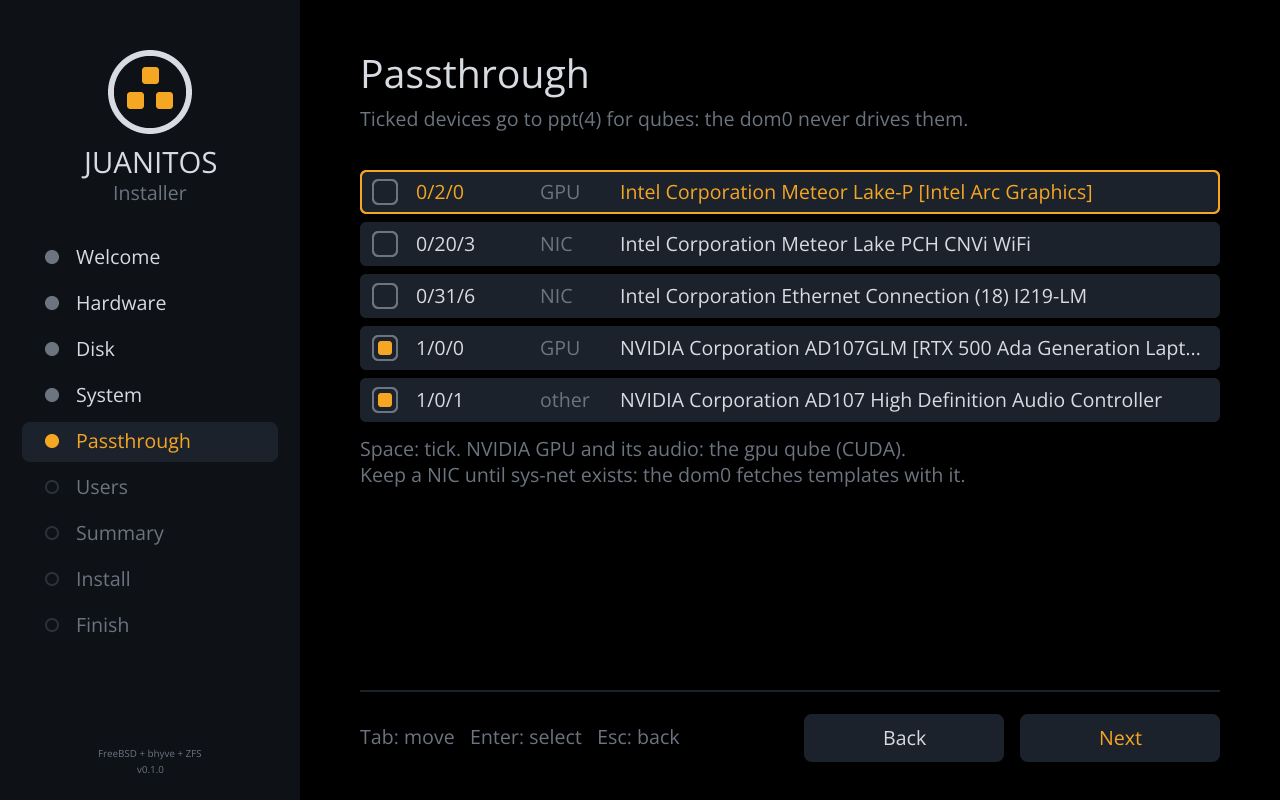
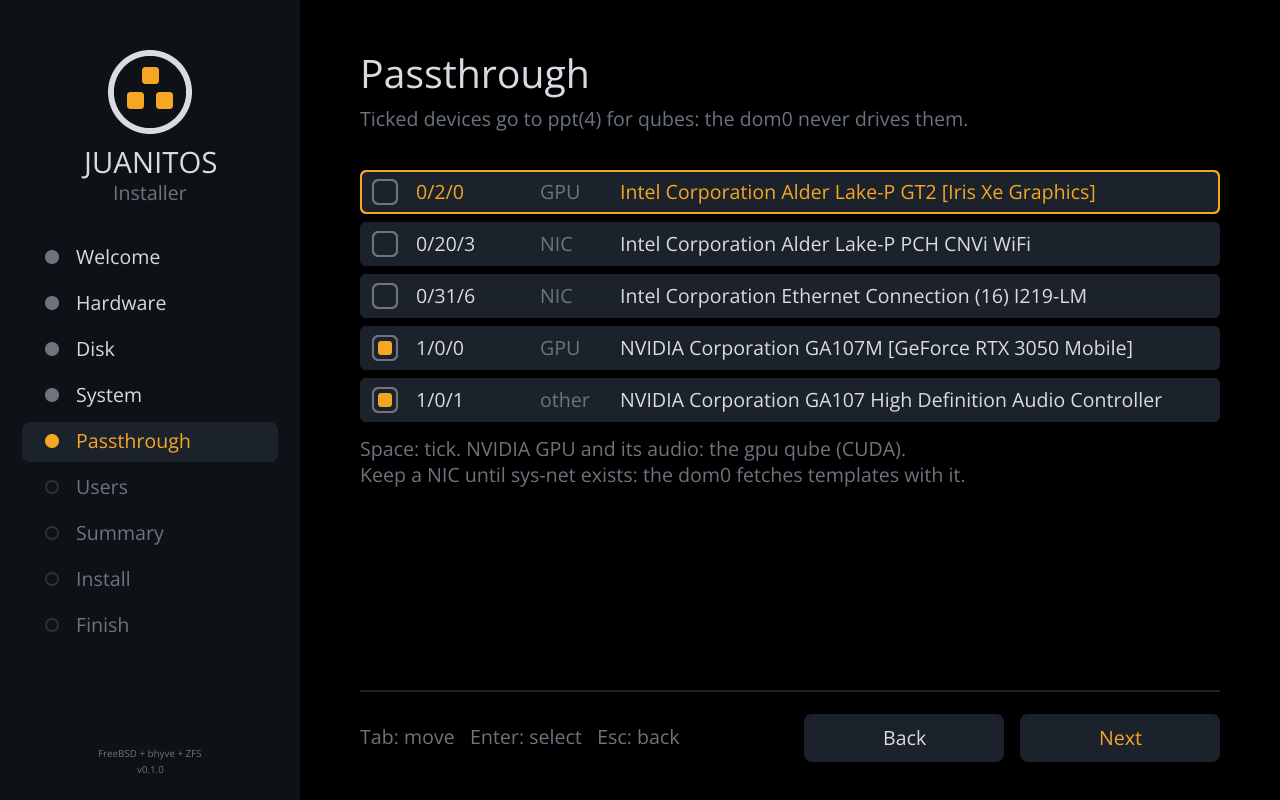
tests: Use a generic hybrid laptop in the hardware fixtures
The PCI, dmesg and SMBIOS fixtures, the sample installer wizard and its
passthrough screenshot now describe a generic Alder Lake-P laptop with an
Iris Xe iGPU and an RTX 3050 Mobile instead of a specific machine.

diff --git a/crates/jos/tests/cli.rs b/crates/jos/tests/cli.rs
@@ -1573,13 +1573,13 @@ fn fake_host(e: &Env, tools: &[(&str, &str)]) -> PathBuf {
 /// (GPU and audio) reserved at install time, the wired NIC on em0.
 #[cfg(unix)]
 const PCICONF: &str = r#"printf '%s\n' \
-  'vgapci0@pci0:0:2:0:  class=0x030000 rev=0x00 hdr=0x00 vendor=0x8086 device=0x7d55' \
+  'vgapci0@pci0:0:2:0:  class=0x030000 rev=0x00 hdr=0x00 vendor=0x8086 device=0x46a6' \
   "    vendor     = 'Intel Corporation'" \
-  "    device     = 'Arc Graphics'" \
-  'ppt0@pci0:1:0:0:  class=0x030000 rev=0xa1 hdr=0x00 vendor=0x10de device=0x28b8' \
+  "    device     = 'Alder Lake-P GT2 [Iris Xe Graphics]'" \
+  'ppt0@pci0:1:0:0:  class=0x030000 rev=0xa1 hdr=0x00 vendor=0x10de device=0x25a2' \
   "    vendor     = 'NVIDIA Corporation'" \
-  "    device     = 'RTX 500 Ada Generation Laptop GPU'" \
-  'ppt1@pci0:1:0:1:  class=0x040300 rev=0xa1 hdr=0x00 vendor=0x10de device=0x22be' \
+  "    device     = 'GA107M [GeForce RTX 3050 Mobile]'" \
+  'ppt1@pci0:1:0:1:  class=0x040300 rev=0xa1 hdr=0x00 vendor=0x10de device=0x2291' \
   'em0@pci0:5:0:0:  class=0x020000 rev=0x10 hdr=0x00 vendor=0x8086 device=0x15bc' \
   "    vendor     = 'Intel Corporation'" \
   "    device     = 'Ethernet Connection I219-LM'""#;
@@ -1598,7 +1598,7 @@ fn a_ready_host_passes_the_doctor_and_setup_reserves_its_cards() {
                 "sysctl",
                 r#"case "$1" in
   hw.vmm.iommu.enable) echo 'hw.vmm.iommu.enable: 1' ;;
-  hw.model) echo 'hw.model: Intel(R) Core(TM) Ultra 7 165H' ;;
+  hw.model) echo 'hw.model: 12th Gen Intel(R) Core(TM) i7-12700H' ;;
   *) exit 1 ;;
 esac"#,
             ),
@@ -1657,7 +1657,7 @@ esac"#,
         report.contains("==== pciconf -lv ====\nvgapci0@pci0:0:2:0:"),
         "{report}"
     );
-    assert!(report.contains("RTX 500 Ada Generation"), "{report}");
+    assert!(report.contains("GeForce RTX 3050 Mobile"), "{report}");
     assert!(
         report.contains("==== uname -a ====\n(exit code"),
         "{report}"
@@ -1667,7 +1667,7 @@ esac"#,
     let all = ok(&["pci", "list"]);
     assert!(all.starts_with("ADDR"), "{all}");
     assert!(
-        all.contains("1/0/0    ppt0       10de:28b8 030000   NVIDIA Corporation RTX 500"),
+        all.contains("1/0/0    ppt0       10de:25a2 030000   NVIDIA Corporation GA107M"),
         "{all}"
     );
     assert!(all.contains("5/0/0    em0"), "{all}");

diff --git a/crates/jos-install/src/ui.rs b/crates/jos-install/src/ui.rs
@@ -939,8 +939,7 @@ pub fn sample_wizard() -> Wizard {
         status,
         detail: detail.into(),
     };
-    // A hybrid-graphics laptop: Intel Arc iGPU for the dom0, NVIDIA for
-    // CUDA.
+    // A hybrid-graphics laptop: Intel iGPU for the dom0, NVIDIA for CUDA.
     let dev = |addr: PciAddr, vendor: u16, device: u16, class: u32, d: &str| PciDevice {
         addr,
         driver: "none0".into(),
@@ -953,37 +952,37 @@ pub fn sample_wizard() -> Wizard {
         dev(
             PciAddr::new(0, 2, 0),
             0x8086,
-            0x7d55,
+            0x46a6,
             0x030000,
-            "Intel Corporation Meteor Lake-P [Intel Arc Graphics]",
+            "Intel Corporation Alder Lake-P GT2 [Iris Xe Graphics]",
         ),
         dev(
             PciAddr::new(0, 20, 3),
             0x8086,
-            0x7e40,
+            0x51f0,
             0x028000,
-            "Intel Corporation Meteor Lake PCH CNVi WiFi",
+            "Intel Corporation Alder Lake-P PCH CNVi WiFi",
         ),
         dev(
             PciAddr::new(0, 31, 6),
             0x8086,
-            0x550a,
+            0x1a1e,
             0x020000,
-            "Intel Corporation Ethernet Connection (18) I219-LM",
+            "Intel Corporation Ethernet Connection (16) I219-LM",
         ),
         dev(
             PciAddr::new(1, 0, 0),
             0x10de,
-            0x28b9,
+            0x25a2,
             0x030000,
-            "NVIDIA Corporation AD107GLM [RTX 500 Ada Generation Laptop GPU]",
+            "NVIDIA Corporation GA107M [GeForce RTX 3050 Mobile]",
         ),
         dev(
             PciAddr::new(1, 0, 1),
             0x10de,
-            0x22be,
+            0x2291,
             0x040300,
-            "NVIDIA Corporation AD107 High Definition Audio Controller",
+            "NVIDIA Corporation GA107 High Definition Audio Controller",
         ),
     ];
     Wizard::new(

diff --git a/crates/juanitos-core/src/report.rs b/crates/juanitos-core/src/report.rs
@@ -192,10 +192,10 @@ mod tests {
     use crate::sys::{CmdOutput, MockRunner};
 
     const DMESG: &str = "\
-CPU: Intel(R) Core(TM) Ultra 7 165H (2995.20-MHz K8-class CPU)
+CPU: 12th Gen Intel(R) Core(TM) i7-12700H (2688.00-MHz K8-class CPU)
   VT-x: PAT,HLT,MTF,PAUSE,EPT,UG,VPID
 DMAR: Found table at 0x7a3d0000
-VT(efifb): resolution 2560x1600
+VT(efifb): resolution 1920x1080
 nda0: Serial Number S6XNNS0W123456
 Mounting from cd9660:/dev/iso9660/JUANITOS failed with error 19.
 mountroot>
@@ -247,7 +247,7 @@ mountroot>
             "smbios.system.serial=\"PF3ABCDE\"\n\
              smbios.system.uuid=\"4c4c4544-0000\"\n\
              smbios.chassis.tag=\"ASSET-1\"\n\
-             smbios.system.product=\"21FV\"\n\
+             smbios.system.product=\"Example Laptop\"\n\
              nda0: Serial Number S6XNNS0W123456\n\
              ugen0.2: <Kingstön> SERIAL NUMBER 0123\n\
              vfs.root.mountfrom=\"zfs:zroot/ROOT/default\"\n\
@@ -262,7 +262,10 @@ mountroot>
             "{text}"
         );
         assert!(text.contains("nda0: Serial Number (removed)"), "{text}");
-        assert!(text.contains("smbios.system.product=\"21FV\""), "{text}");
+        assert!(
+            text.contains("smbios.system.product=\"Example Laptop\""),
+            "{text}"
+        );
         assert!(text.contains("zfs:zroot/ROOT/default"), "{text}");
         assert!(
             text.contains("<Kingstön> SERIAL NUMBER (removed)"),

diff --git a/crates/juanitos-core/src/pci.rs b/crates/juanitos-core/src/pci.rs
@@ -453,10 +453,10 @@ ppt0@pci0:1:0:1:\tclass=0x040300 rev=0xa1 hdr=0x00 vendor=0x10de device=0x10f0 s
         assert!(!devs[1].is_nvidia());
         assert_eq!(devs[4].label(), "vendor 0x10de device 0x1234");
         let named = PciDevice {
-            description: Some("NVIDIA RTX 500 Ada".into()),
+            description: Some("NVIDIA GeForce RTX 3050 Mobile".into()),
             ..devs[4].clone()
         };
-        assert_eq!(named.label(), "NVIDIA RTX 500 Ada");
+        assert_eq!(named.label(), "NVIDIA GeForce RTX 3050 Mobile");
     }
 
     #[test]

diff --git a/crates/juanitos-core/src/dom0.rs b/crates/juanitos-core/src/dom0.rs
@@ -572,7 +572,7 @@ mod tests {
     #[test]
     fn gpu_modules_follow_drm_kmod() {
         assert_eq!(gpu_kernel_module(0x1002, 0x73bf), Some("amdgpu"));
-        assert_eq!(gpu_kernel_module(0x8086, 0x7d55), Some("i915kms"));
+        assert_eq!(gpu_kernel_module(0x8086, 0x46a6), Some("i915kms"));
         assert_eq!(gpu_kernel_module(0x15ad, 0x0405), Some("jos_vmsvga"));
         assert_eq!(
             gpu_kernel_module(0x15ad, 0x0406),
